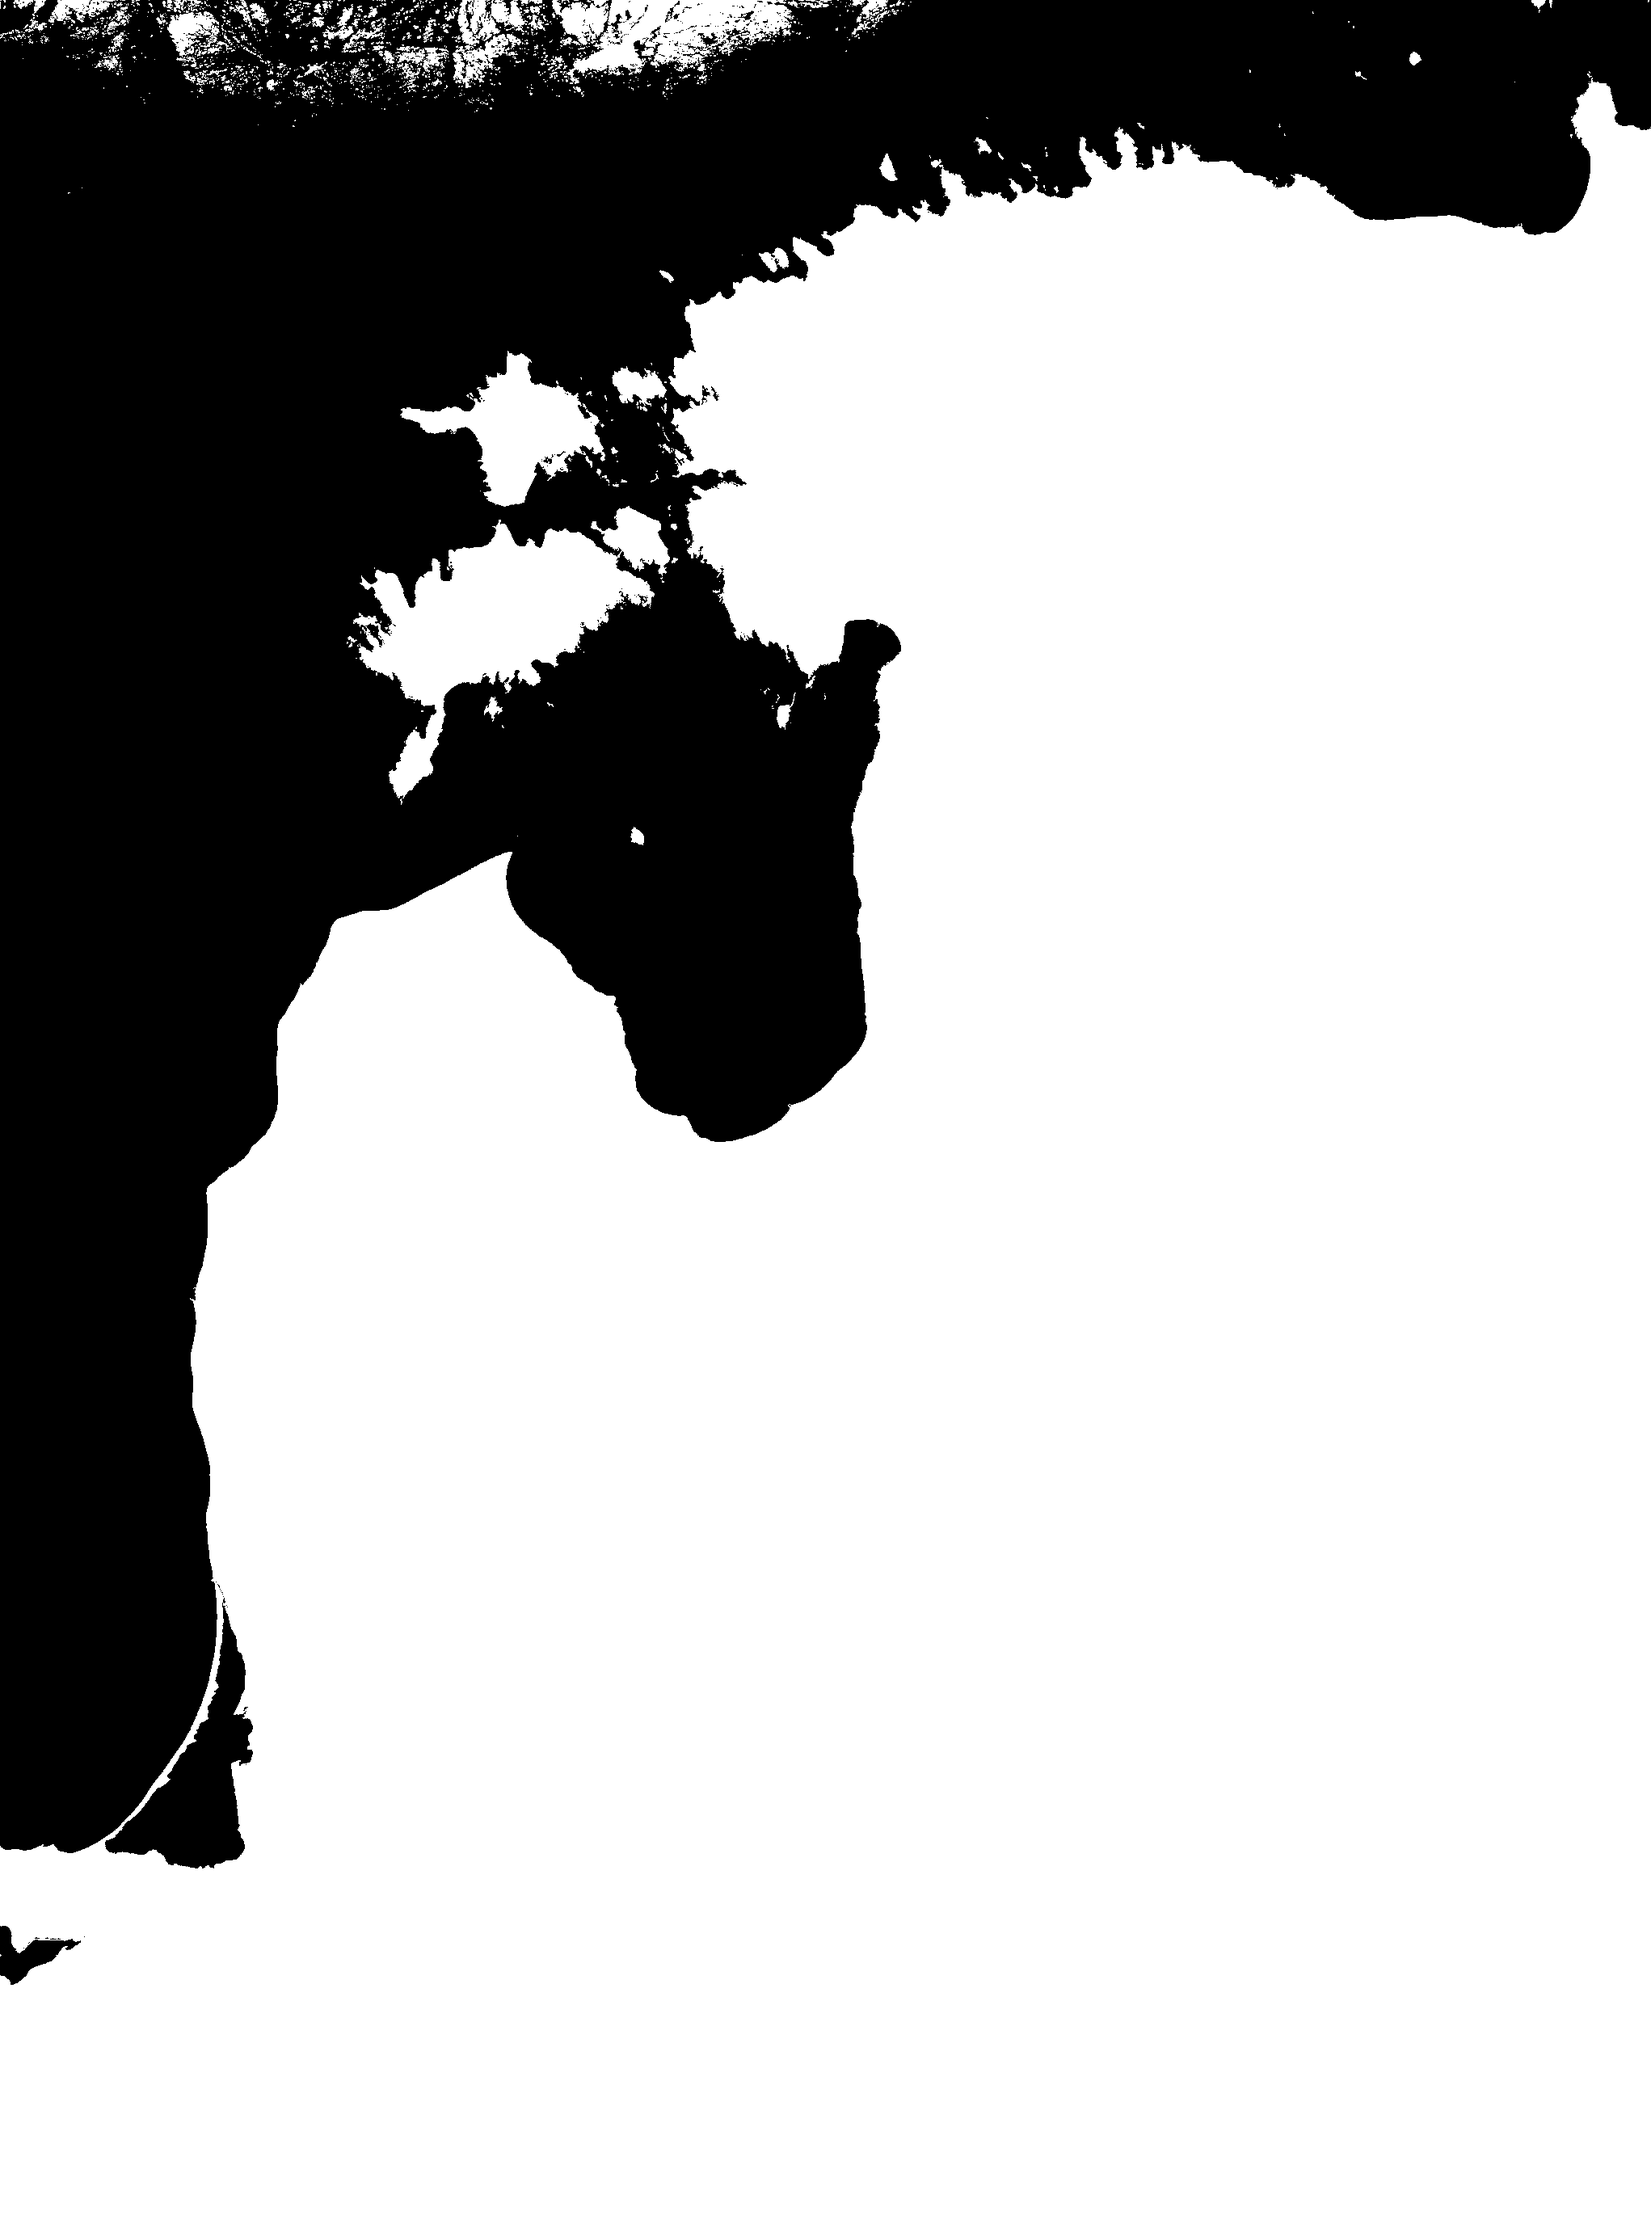
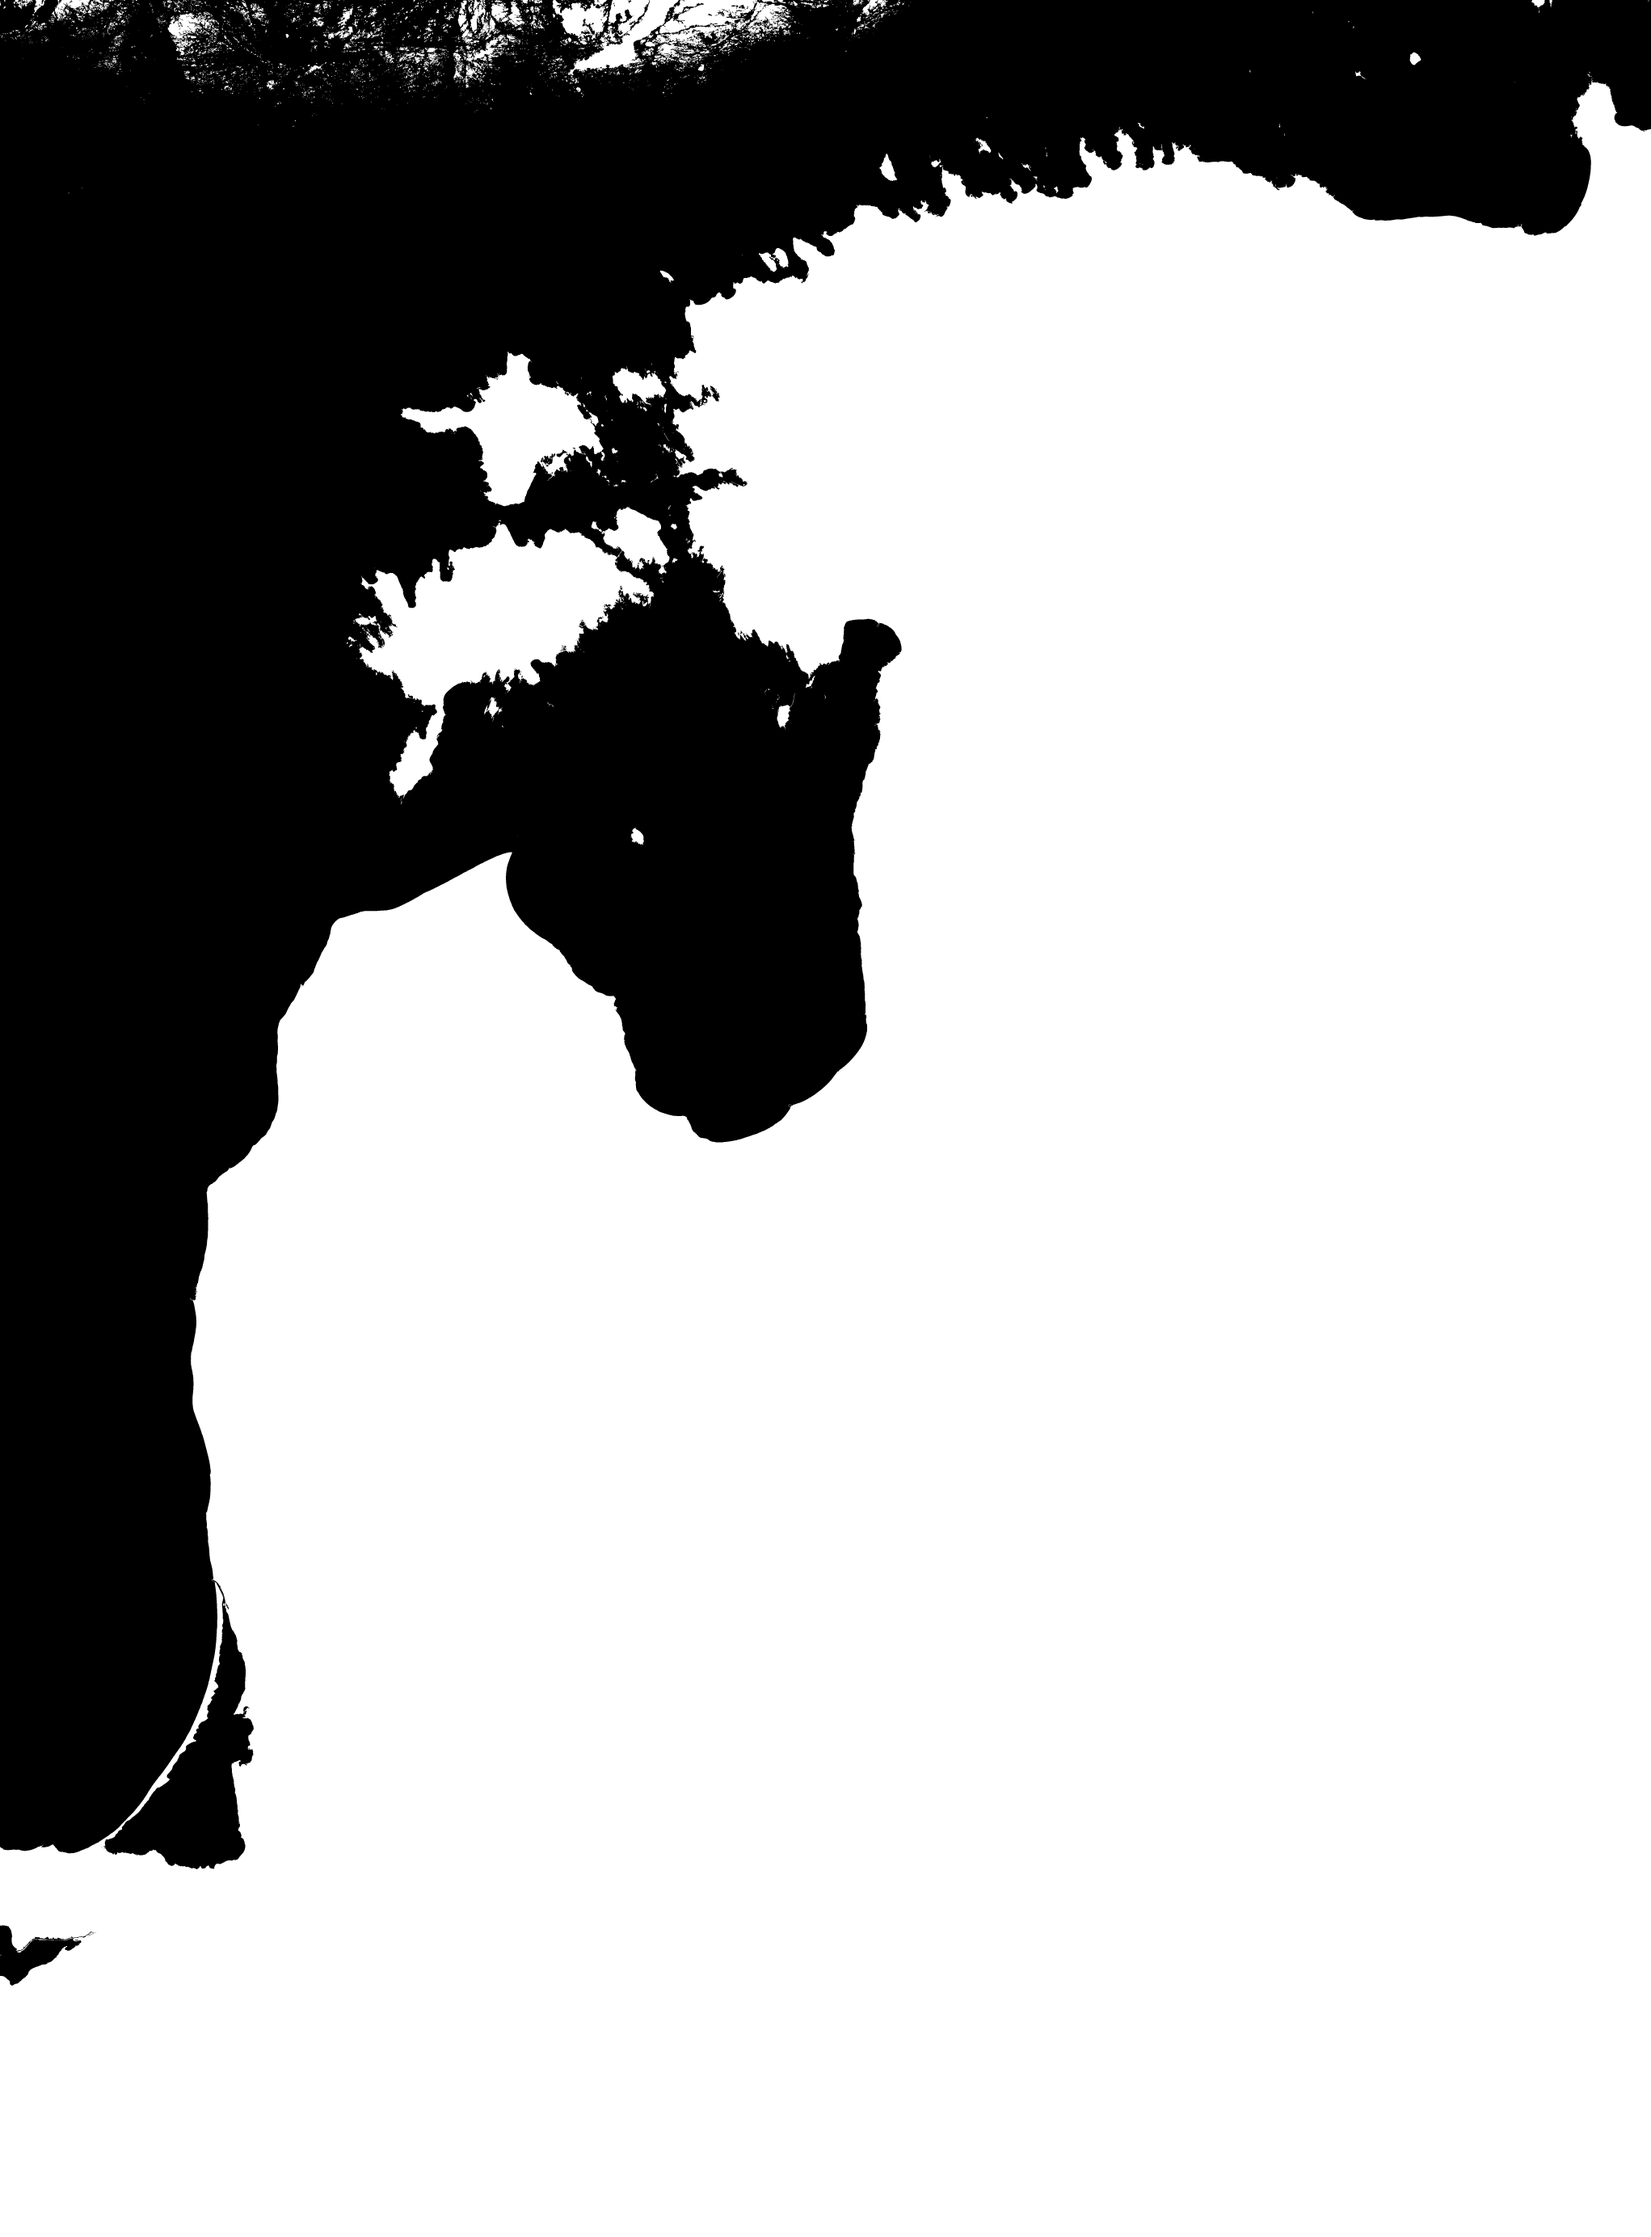
Coastline drawn 4x4 finer and averaged: gray along the shore, a smooth edge

Changed region(s): [[0.0, 0.0, 0.4934, 0.0311], [0.37, 0.2486, 0.4009, 0.2796]]

diff --git a/build_coast.py b/build_coast.py
@@ -5,7 +5,8 @@ contributors, ODbL; https://osmdata.openstreetmap.de/data/land-polygons.html, th
 
     python build_coast.py land-polygons-split-4326.zip
 
-Writes coast.png (white = land, Web Mercator like the frames) and coast.json (its box).
+Writes coast.png (white = land, gray along the shore by how much of the pixel is land: drawn
+4 x 4 finer and averaged, so the edge is smooth) and coast.json (its box).
 """
 import json
 import sys
@@ -21,6 +22,8 @@ import metnordic_map
 
 HERE = Path(__file__).parent
 KM = 0.25
+# Drawn this many times finer, then averaged: a soft, smooth shoreline.
+SUPER = 4
 
 
 def main():
@@ -29,9 +32,10 @@ def main():
     top, bottom = float(maplib.mercator_y(north)), float(maplib.mercator_y(south))
 
     def pixel(lon, lat):
-        return ((lon - west) / (east - west) * width, (top - float(maplib.mercator_y(lat))) / (top - bottom) * height)
+        return ((lon - west) / (east - west) * width * SUPER,
+                (top - float(maplib.mercator_y(lat))) / (top - bottom) * height * SUPER)
 
-    image = Image.new("L", (width, height), 0)
+    image = Image.new("L", (width * SUPER, height * SUPER), 0)
     draw = ImageDraw.Draw(image)
     archive = zipfile.ZipFile(sys.argv[1])
     names = {Path(n).suffix: n for n in archive.namelist() if Path(n).stem == "land_polygons"}
@@ -48,7 +52,8 @@ def main():
             area = sum(a[0] * b[1] - b[0] * a[1] for a, b in zip(ring, ring[1:] + ring[:1]))
             draw.polygon([pixel(x, y) for x, y in ring], fill=255 if area < 0 else 0)
         drawn += 1
-    image.convert("1").save(HERE / "coast.png", optimize=True)
+    image = image.resize((width, height), Image.BOX)
+    image.save(HERE / "coast.png", optimize=True)
     (HERE / "coast.json").write_text(json.dumps({
         "bounds": {"south": south, "north": north, "west": west, "east": east}, "width": width, "height": height,
         "km": KM, "source": "© OpenStreetMap contributors, ODbL (land polygons, osmdata.openstreetmap.de)"}) + "\n")
